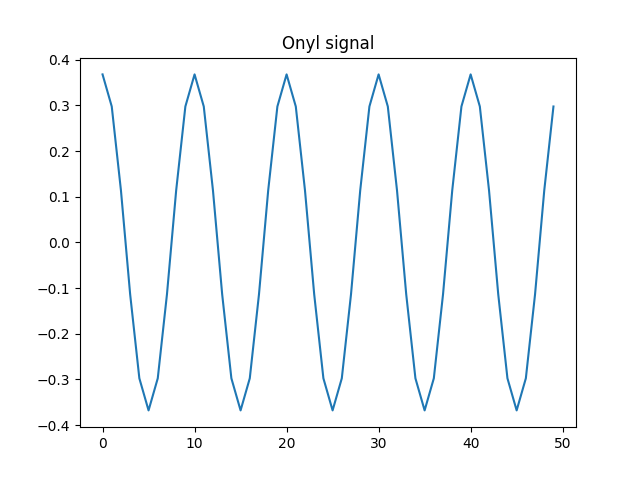
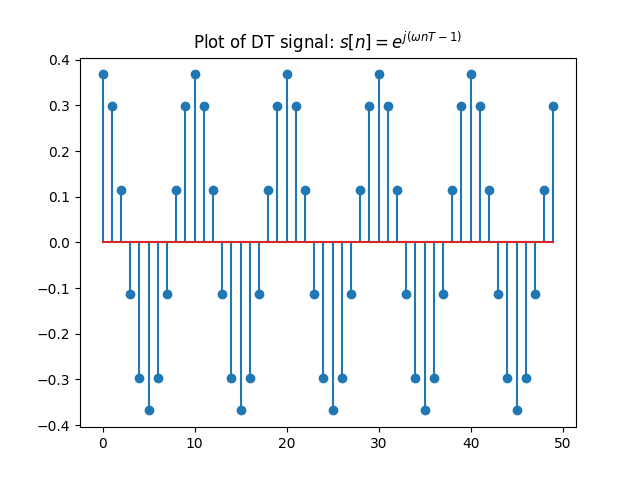
Recreated white gaussian noise

Changed region(s): [[0.1562, 0.0625, 0.875, 0.875]]

diff --git a/main.py b/main.py
@@ -25,7 +25,12 @@ CRLB_THETA = 12*(SIGMA_SQUARED)*((n_0**2)*N + 2*n_0*P + Q) / ((A**2)*(N**2)*((N*
 # ---------- Signals ---------- #
 
 # White complex Gaussian noise
-w = np.random.randn(N, 2).view(np.complex128)
+wReal = np.random.normal(0, 1, size=N)
+wImag = np.random.normal(0, 1, size=N)*1j
+
+w = []
+for i in range(N):
+    w.append([wReal[i] + wImag[i]])
 
 # Exponential signal
 s = []
@@ -39,6 +44,7 @@ for i in range(N):
 
 
 def main():
+    n = np.arange(N)
     print("The CRLB for the Omega estimator is: ", CRLB_OMEGA)
     print("The CRLB for the Theta estimator is: ",CRLB_THETA)
     
@@ -48,8 +54,8 @@ def main():
     plt.savefig("noise.png")
     
     plt.figure(3)
-    plt.plot(s)
-    plt.title("Onyl signal")
+    plt.stem(n,s)
+    plt.title("Plot of DT signal: $s[n] = e^{j(\omega n T -1)}$")
     plt.savefig("signal.png")
 
     plt.figure(2)
@@ -57,10 +63,30 @@ def main():
     plt.xlabel("n")
     plt.ylabel("x[n] = ")
     plt.plot(x)
-    plt.savefig("total.png")    
+    plt.savefig("total.png") 
+
+    n = np.arange(N)
+    plt.figure(4)
+    plt.title("Plot of DT signal: $x[n] = e^{j(\omega n T -1)} + w[n]$")
+    plt.xlabel("n")
+    plt.ylabel("x[n]")
+    plt.stem(n,x)
+    plt.savefig("stem.png")
+
+    # Fourier transform
 
 
+    FT_s = np.fft.fft(s)
+    FT_x = np.fft.fft(x)
 
+    plt.subplots_adjust(left=0.125, bottom=0.1, right=0.9, top=0.9, wspace=0.4, hspace=0.4)
+    plt.subplot(211)
+    plt.title("FFT of only signal")
+    plt.stem(n,FT_s)
+    plt.subplot(212)
+    plt.title("FFT of signal embedded in noise")
+    plt.stem(n,FT_x)
+    plt.savefig("fft.png")    
 
 main()
 
